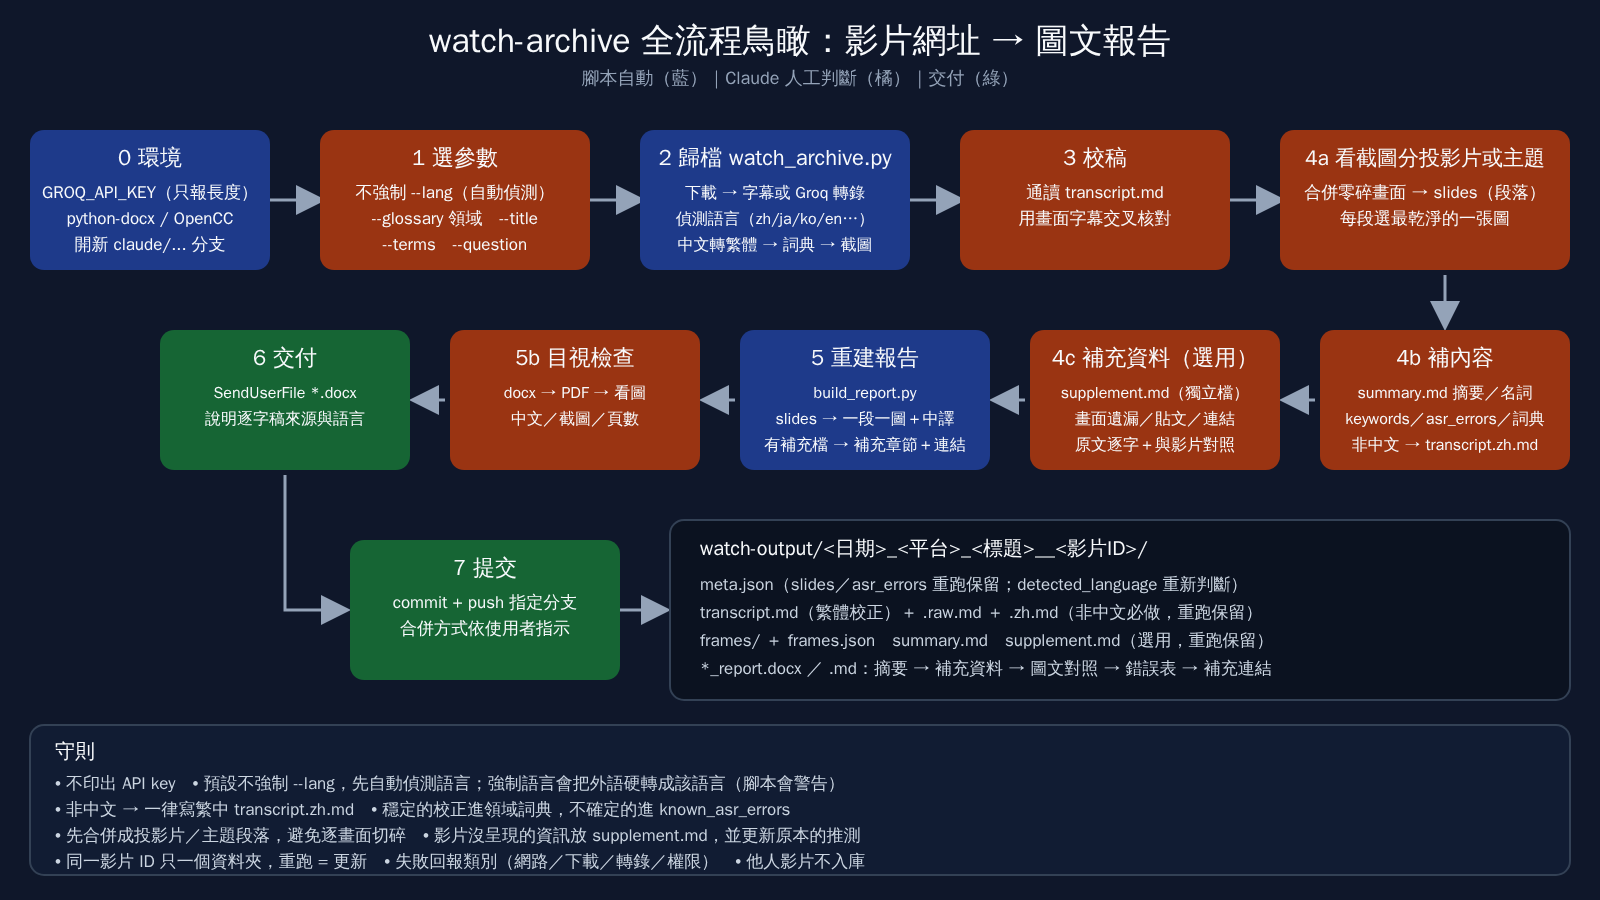
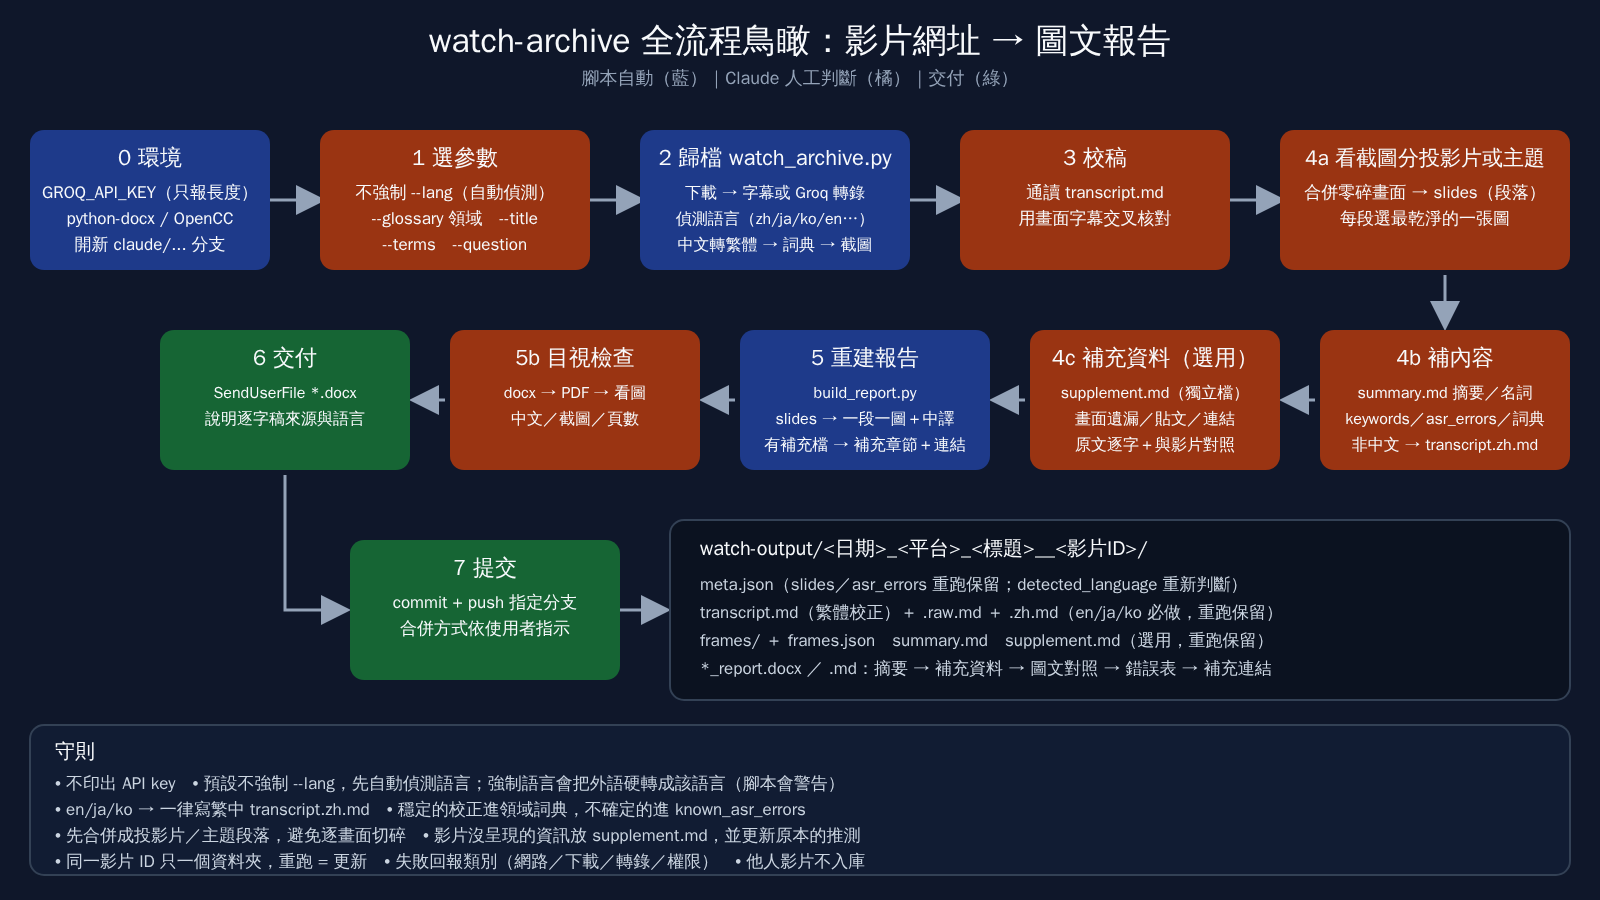
Round-4 review fixes: Japanese needs hiragana on most lines (Chinese quoting Japanese stays zh), correct --engine/WATCH_ENGINE docs, README typo and Gemini example, document detection blind spots
Claude-Session: https://claude.ai/code/session_018V6Fu5BPSFZCUm4855xFzi

Changed region(s): [[0.0312, 0.8711, 0.5, 0.9333], [0.6562, 0.6533, 0.7812, 0.7156]]

diff --git a/tests/test_watch_archive.py b/tests/test_watch_archive.py
@@ -34,10 +34,25 @@ class DetectLanguage(unittest.TestCase):
         text = "# 標題標題標題標題標題標題標題標題\n_Source: whisper (groq)._\n```\n[00:01] ok\n```\n"
         self.assertEqual(wa.detect_language(text), "unknown")
 
-    def test_kanji_heavy_japanese_is_ja(self):
-        # kana is only ~14% of the CJK characters here, below the old 0.15 threshold
+    def test_real_japanese_prose_is_ja(self):
+        self.assertEqual(wa.detect_language("[00:01] これはテストです。今日は東京で会議があります。\n" * 5), "ja")
+
+    def test_kanji_heavy_japanese_is_left_for_human_check(self):
+        # hiragana is only ~9% of the CJK characters: not confident enough for 'ja', must not become 'zh'
         text = "[00:01] 日本国内経済成長率予測発表政府統計調査結果概要説明資料公開である\n" * 3
-        self.assertEqual(wa.detect_language(text), "ja")
+        self.assertEqual(wa.detect_language(text), "other")
+
+    CHINESE_LINES = ("[00:01] 今天要跟大家分享一個很實用的方法，可以讓你的工作效率提升很多，而且完全不用花錢。\n"
+                     "[00:08] 首先打開設定頁面，選擇你需要的功能，接著按照畫面上的步驟一步一步操作就可以了。\n"
+                     "[00:15] 最後記得儲存，這樣下次打開的時候就會自動套用，非常方便，大家可以試試看。\n")
+
+    def test_chinese_with_one_japanese_phrase_is_zh(self):
+        text = self.CHINESE_LINES + "[00:22] 影片最後講者用日文說了ありがとうございます，謝謝大家的收看。\n"
+        self.assertEqual(wa.detect_language(text), "zh")
+
+    def test_chinese_mentioning_japanese_titles_is_zh(self):
+        text = self.CHINESE_LINES + "[00:22] 我最喜歡的宮崎駿作品是となりのトトロ和もののけ姫，劇情非常感人，畫面也很美。\n"
+        self.assertEqual(wa.detect_language(text), "zh")
 
     def test_chinese_with_katakana_brands_is_zh(self):
         self.assertEqual(wa.detect_language("[00:01] 今天我們去了東京的ユニクロ和セブンイレブン，買了很多東西回家。\n" * 3), "zh")

diff --git a/scripts/watch_archive.py b/scripts/watch_archive.py
@@ -105,8 +105,16 @@ def detect_language(text: str) -> str:
         return "unknown"
     if hangul >= 5 and hangul / cjk >= 0.3:
         return "ko"
-    if hira >= 5 and hira / cjk >= 0.05:  # kanji-heavy Japanese still has some hiragana
-        return "ja"
+    if hira >= 5:
+        # Real Japanese has hiragana (particles) on almost every line; Chinese quoting a Japanese phrase or title
+        # has it on a minority of lines, and then falls through to the Chinese check below.
+        cjk_lines = [ln for ln in body.splitlines() if re.search(r"[\u3040-\u30ff\u4e00-\u9fff]", ln)]
+        hira_share = sum(1 for ln in cjk_lines if re.search(r"[\u3040-\u309f]", ln)) / max(len(cjk_lines), 1)
+        if hira_share >= 0.5:
+            if hira / cjk >= 0.15:  # real Japanese prose is typically 30-60% hiragana
+                return "ja"
+            if hira / cjk >= 0.05:
+                return "other"  # kanji-heavy Japanese (headlines, noun lists): a human decides
     if han >= 10 and han / total >= 0.2:
         return "zh"
     if cjk == 0 and len({w.lower() for w in re.findall(r"[A-Za-z]+", body)}) < 4:

diff --git a/README.md b/README.md
@@ -120,8 +120,9 @@ python3 -m unittest discover -s tests -v   # 語言偵測、supplement.md 解析
 
 ### 限制與風險
 
-- **平台**：YouTube 在雲端環境常被擋（HTTP 429、要求登入），歸檔會失敗；Google Drive 影片須設成「知道連結的任何人」才抓得到（403 通常是權限問題，歸檔後建議改回私人）。上游 `watch` skill 的 Gemini 引擎可能遇到服務塞車（503）或模型停用（如 `gemini-2.5-flash` 已不開放新使用者），失敗時不會自動降級，需明確改用 `--engine local`。
-- **語言偵測是啟發式**：只看輸出文字的字元比例（門檻為經驗值，僅在少數影片實測）。`en` 代表拉丁字母的非中文（西班牙文也會標 `en`）；`other`（混雜）與 `unknown`（太短或缺失）必須人工確認；`--lang` 強制語言時偵測不出錯誤。`ja`／`ko`／`other` 不做簡轉繁，是為了避免把日文漢字改壞（會議→會議）。
+- **平台**：YouTube 在雲端環境常被擋（HTTP 429、要求登入），歸檔會失敗；Google Drive 影片須設成「知道連結的任何人」才抓得到（403 通常是權限問題，歸檔後建議改回私人）。上游 `watch` skill 的 Gemini 引擎可能遇到服務塞車（503）或模型停用（例如 `gemini-2.5-flash` 已不開放新使用者；預設模型為 `gemini-3.7-flash`），失敗時不會自動降級，需明確改用本機引擎（設定環境變數 `WATCH_ENGINE=local` 後再執行；`watch_archive.py` 本身沒有 `--engine` 參數）。
+- **語言偵測是啟發式**：只看輸出文字的字元比例（門檻為經驗值，僅在少數影片實測）。`en` 代表拉丁字母的非中文（西班牙文也會標 `en`）；`other`（混雜）與 `unknown`（太短或缺失）必須人工確認；`--lang` 強制語言時偵測不出錯誤。`ja`／`ko`／`other` 不做簡轉繁，是為了避免把日文漢字改壞（会議→會議）。
+- **偵測的已知盲點**：日文以平假名判斷（至少一半含漢字的行有平假名，且占比 ≥15% 才判 `ja`，5–15% 判 `other` 交給人確認；中文只在少數行夾日文會維持 `zh`），所以①以漢字為主的日文（新聞標題、名詞列表）可能判成 `zh` 而被簡轉繁改字；②純片假名日文判成 `other`；③帶漢字的韓文可能判成 `zh`；④`unknown`（太短）仍會簡轉繁，短日文句（如「会議です」）會被改。整份逐字稿只有一兩行的極短影片，中文夾日文仍可能誤判。`main()` 的語言分流與資料夾改名目前沒有自動化測試。
 - **轉錄品質**：Whisper 常把 Claude 聽成 Cloud 等；詞典 `claude-code` 的替換假設講者在談 Claude，若影片在講雲端請勿載入。Whisper 提示詞以「、」串接，可能讓它偏向中文，尚未驗證。
 - **舊資料**：語言偵測加入前歸檔的影片，`meta.json` 沒有 `detected_language`，重跑歸檔才會補上。
 - **Word 報告**：字型為 Microsoft JhengHei；在缺此字型的環境轉 PDF 預覽可能出現方框（僅預覽問題，docx 內文字正確），但尚未在真正的 Word 逐份驗證。

diff --git a/CLAUDE.md b/CLAUDE.md
@@ -16,8 +16,8 @@
 ## 已知限制（細節見 README「限制與風險」）
 
 - YouTube 在雲端環境常被擋（429／要求登入）；Google Drive 影片須公開分享才抓得到，歸檔後提醒使用者改回私人。
-- 語言偵測是字元比例的啟發式：`en` 含其他拉丁字母語言；`other`／`unknown` 要自己讀逐字稿確認；`ja`／`ko`／`other` 不做簡轉繁，確定是中文時手動轉。
-- Gemini 引擎失敗（503／模型停用）不自動降級，要先問使用者再用 `--engine local`。
+- 語言偵測是字元比例的啟發式：`en` 含其他拉丁字母語言；`other`／`unknown` 要自己讀逐字稿確認；`ja`／`ko`／`other` 不做簡轉繁，確定是中文時手動轉；漢字為主的日文與太短的 `unknown` 仍可能被誤轉。
+- Gemini 引擎失敗（503／模型停用）不自動降級，要先問使用者，再以環境變數 `WATCH_ENGINE=local` 改用本機引擎（`watch_archive.py` 沒有 `--engine` 參數）。
 - 詞典 `claude-code` 假設講者在談 Claude，講雲端的影片不要載入。
 - Word 預覽缺字型會出現方框（僅預覽問題）；尚未在真正的 Word 逐份驗證。
 
